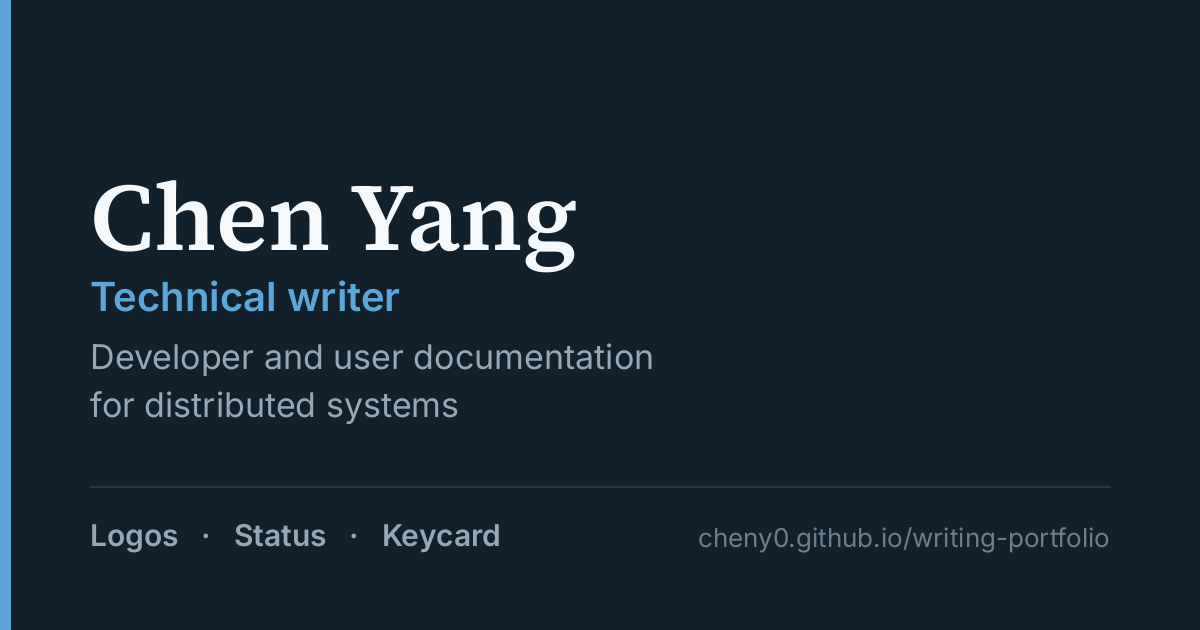
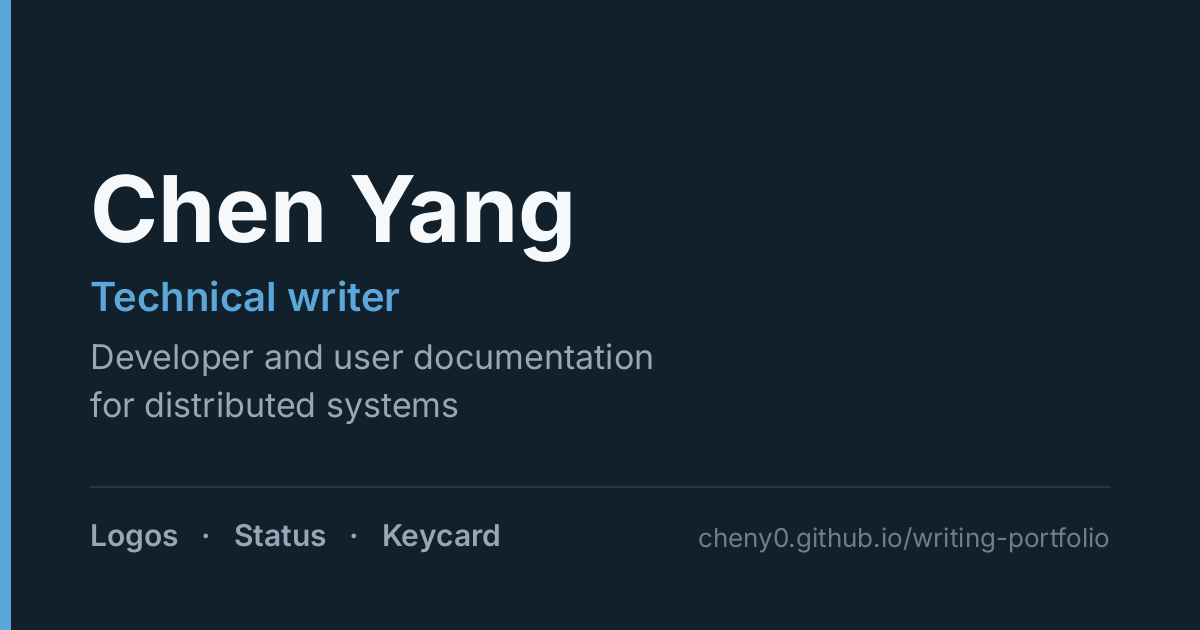
Use Inter throughout and fix the Sample callout
Drops Source Serif 4 so headings and body share Inter; regenerates the favicon
and social card to match.

The Sample callout was written as ':::info Sample', which Docusaurus 3 does not
parse — the title must be bracketed, so all 13 rendered as literal ':::info
Sample' text rather than as an admonition. Retitles them ':::info[Sample]' and
moves each below whatever opens the article, instead of sitting between the
title and its standfirst.

Claude-Session: https://claude.ai/code/session_01PQjLMLT9wbxexU7G71Ku5E

Changed region(s): [[0.0617, 0.2714, 0.4933, 0.4524]]

diff --git a/src/css/custom.css b/src/css/custom.css
@@ -18,12 +18,10 @@
   --ifm-color-primary-lighter: #216aa4;
   --ifm-color-primary-lightest: #2678ba;
 
-  /* Serif headings against a sans body: the pairing reads as editorial rather
-     than as a default docs site, which is the point of a writing portfolio. */
+  /* Inter throughout, headings included. */
   --ifm-font-family-base: 'Inter', system-ui, -apple-system, 'Segoe UI', Roboto,
     'Helvetica Neue', Arial, sans-serif;
-  --ifm-heading-font-family: 'Source Serif 4', Georgia, Cambria,
-    'Times New Roman', serif;
+  --ifm-heading-font-family: var(--ifm-font-family-base);
   --ifm-font-family-monospace: 'JetBrains Mono', ui-monospace, SFMono-Regular,
     'SF Mono', Menlo, Consolas, monospace;
 
@@ -48,9 +46,7 @@
   --docusaurus-highlighted-code-line-bg: rgba(255, 255, 255, 0.1);
 }
 
-/* The navbar brand is the site's wordmark, so it takes the heading serif. */
 .navbar__title {
-  font-family: var(--ifm-heading-font-family);
   font-size: 1.15rem;
 }
 

diff --git a/docusaurus.config.ts b/docusaurus.config.ts
@@ -21,10 +21,10 @@ const config: Config = {
 
   onBrokenLinks: 'throw',
 
-  // Inter for body, Source Serif 4 for headings, JetBrains Mono for code.
+  // Inter for body and headings, JetBrains Mono for code.
   // preconnect first so the font files aren't blocked behind the CSS request.
   stylesheets: [
-    {href: 'https://fonts.googleapis.com/css2?family=Inter:wght@400;500;600;700&family=JetBrains+Mono:wght@400;700&family=Source+Serif+4:opsz,wght@8..60,600;8..60,700&display=swap', rel: 'stylesheet'},
+    {href: 'https://fonts.googleapis.com/css2?family=Inter:wght@400;500;600;700&family=JetBrains+Mono:wght@400;700&display=swap', rel: 'stylesheet'},
   ],
   headTags: [
     {tagName: 'link', attributes: {rel: 'preconnect', href: 'https://fonts.googleapis.com'}},

diff --git a/docs/dev-docs/install-and-load-a-module-in-the-logos-basecamp-app.md b/docs/dev-docs/install-and-load-a-module-in-the-logos-basecamp-app.md
@@ -6,13 +6,13 @@ description: >-
 tags: [procedure, logos]
 ---
 
-:::info Sample
+#### Get a Logos Module onto your machine and run it from the Basecamp Modules view.
+
+:::info[Sample]
 
 Written for [Logos](https://logos.co/). Published at [docs.logos.co/basecamp/install-and-load-a-module-in-logos-basecamp](https://docs.logos.co/basecamp/install-and-load-a-module-in-logos-basecamp).
 
 :::
-
-#### Get a Logos Module onto your machine and run it from the Basecamp Modules view.
 
 Logos Modules are background services that Basecamp runs in isolated `logos_host` subprocesses to provide features like peer-to-peer networking, storage, or wallets. This procedure walks you through installing a module package into Basecamp and loading it from the Modules view, so the module is available to any UI App that depends on it. Run it once per module you want available on a fresh Basecamp install — for example, to add `waku_module` before loading a chat UI App.
 

diff --git a/docs/dev-docs/create-and-transfer-custom-tokens-on-the-logos-execution-zone.md b/docs/dev-docs/create-and-transfer-custom-tokens-on-the-logos-execution-zone.md
@@ -6,13 +6,13 @@ description: >-
 tags: [procedure, logos]
 ---
 
-:::info Sample
+#### Use the wallet CLI to create custom tokens and transfer them between public and private accounts.
+
+:::info[Sample]
 
 Written for [Logos](https://logos.co/). Published at [docs.logos.co/lez/transfer-tokens/create-and-transfer-custom-tokens-on-the-logos-execution-zone](https://docs.logos.co/lez/transfer-tokens/create-and-transfer-custom-tokens-on-the-logos-execution-zone).
 
 :::
-
-#### Use the wallet CLI to create custom tokens and transfer them between public and private accounts.
 
 :::tip[Version]
 This document is accurate for **Testnet v0.2.1**.

diff --git a/docs/dev-docs/transfer-native-tokens-on-the-logos-execution-zone.md b/docs/dev-docs/transfer-native-tokens-on-the-logos-execution-zone.md
@@ -6,13 +6,13 @@ description: >-
 tags: [procedure, logos]
 ---
 
-:::info Sample
+#### Use the wallet CLI to send native tokens to public and private accounts.
+
+:::info[Sample]
 
 Written for [Logos](https://logos.co/). Published at [docs.logos.co/lez/transfer-tokens/transfer-native-tokens-on-the-logos-execution-zone](https://docs.logos.co/lez/transfer-tokens/transfer-native-tokens-on-the-logos-execution-zone).
 
 :::
-
-#### Use the wallet CLI to send native tokens to public and private accounts.
 
 :::tip[Version]
 This document is accurate for **Testnet v0.2.1**.

diff --git a/docs/dev-docs/build-and-run-a-logos-core-module.md b/docs/dev-docs/build-and-run-a-logos-core-module.md
@@ -6,13 +6,13 @@ description: >-
 tags: [procedure, logos]
 ---
 
-:::info Sample
+#### Scaffold, build, package, and test a core module on Logos.
+
+:::info[Sample]
 
 Written for [Logos](https://logos.co/). Published at [docs.logos.co/core/build-modules/build-and-run-a-logos-core-module](https://docs.logos.co/core/build-modules/build-and-run-a-logos-core-module).
 
 :::
-
-#### Scaffold, build, package, and test a core module on Logos.
 
 :::tip[Version]
 This document is accurate for **Testnet v0.2.1**.
